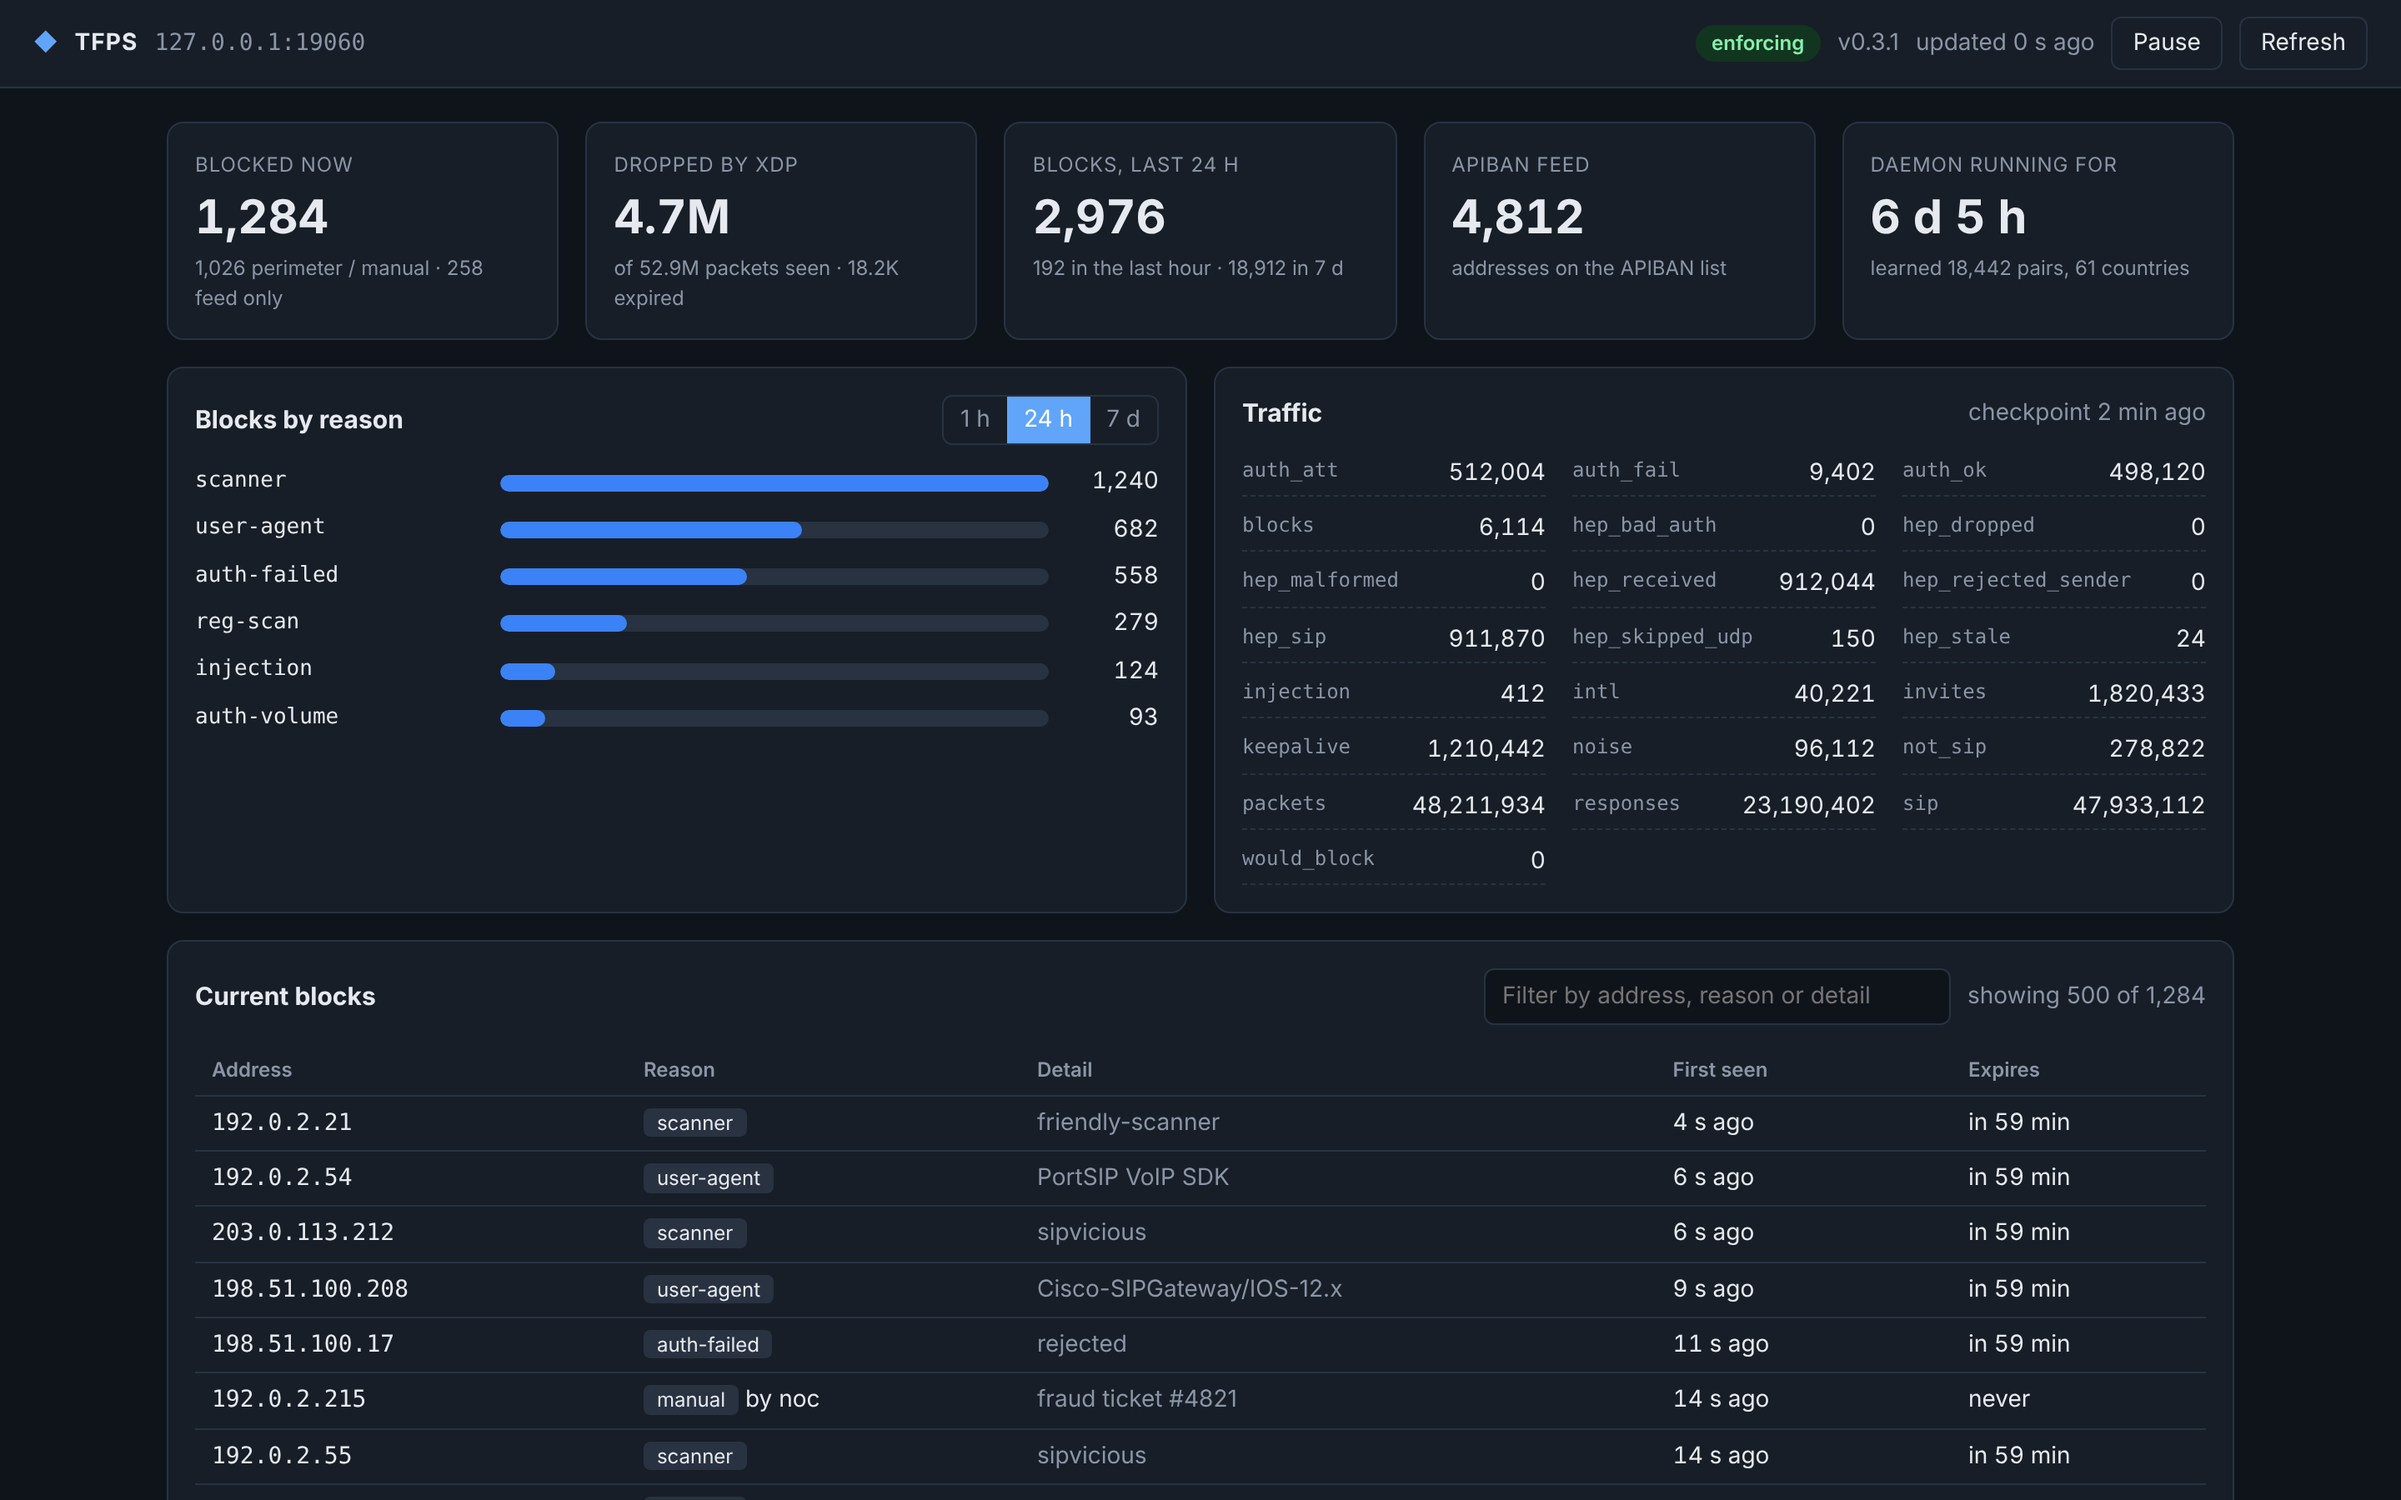
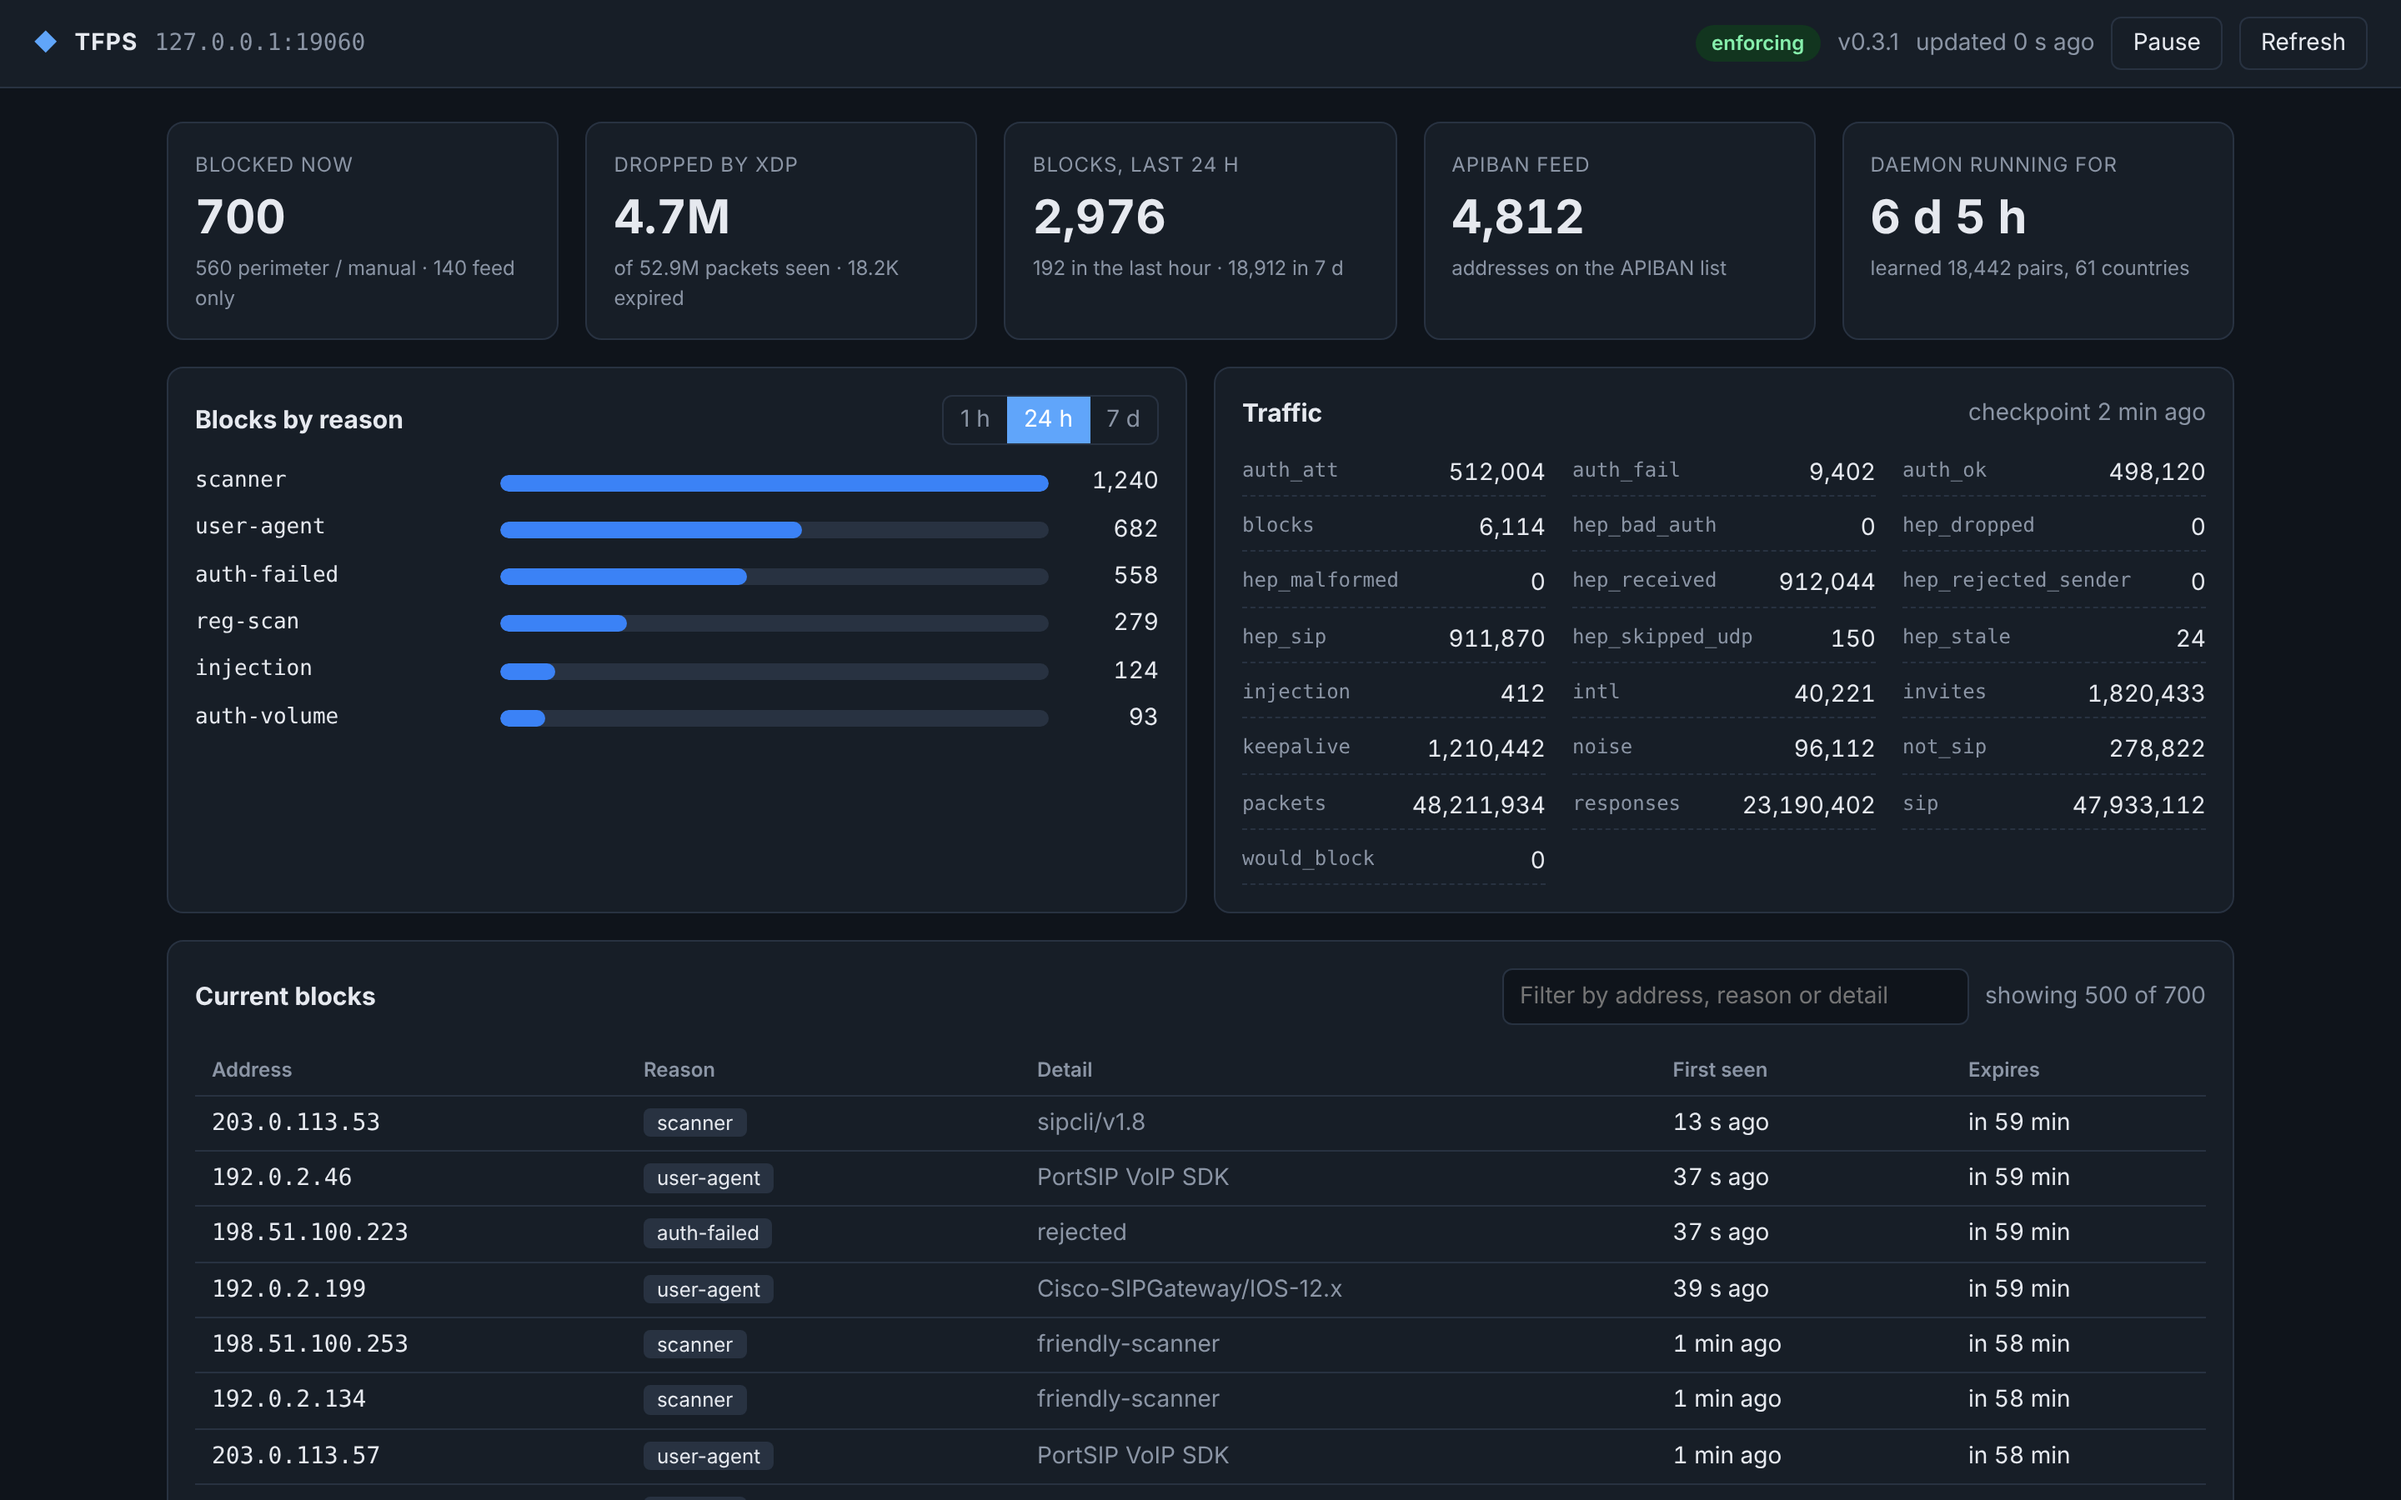
fix(review): address Copilot review round 1
- The block table sorts the listing newest first before taking its 500
  rows; /v1/blocks is in kernel-map order. Rows with no first-seen last.
- The demo gives each block a distinct address (700 of the 762 in the
  documentation ranges, shuffled) and no longer pre-sorts them, as a real
  map would not. Screenshots retaken.

Claude-Session: https://claude.ai/code/session_01NZZMzNQKZU4oQnVuqina6o

diff --git a/crates/tfps/src/dashboard/dashboard.js b/crates/tfps/src/dashboard/dashboard.js
@@ -284,7 +284,9 @@ async function refresh() {
   showError("log-error", log.status === "rejected" ? log.reason : null);
   if (blocks) {
     if (blocks.status === "fulfilled") {
-      lastBlocks = blocks.value;
+      // The API lists blocks in kernel-map order; the table shows the newest
+      // first, so the row limit keeps the newest. No first-seen sorts last.
+      lastBlocks = blocks.value.slice().sort((a, b) => (b.first_seen || 0) - (a.first_seen || 0));
       renderBlocks();
     }
     showError("blocks-error", blocks.status === "rejected" ? blocks.reason : null);

diff --git a/crates/tfps/examples/dashboard_demo.rs b/crates/tfps/examples/dashboard_demo.rs
@@ -22,6 +22,9 @@ use tfps::store::BlockRow;
 
 const LISTEN: &str = "127.0.0.1:19060";
 
+/// Blocks in the demo map: most of the 762 documentation addresses.
+const BLOCKED: usize = 700;
+
 /// The reasons the perimeter gives, with a detail each and how often they occur.
 const REASONS: [(&str, &[&str], u32); 6] = [
     (
@@ -87,10 +90,18 @@ impl Demo {
             Ipv4Addr::new(n[0], n[1], n[2], 1 + rng.below(254) as u8).to_string()
         };
 
+        // Every address in the three documentation ranges once, shuffled: a
+        // block map holds each address at most once, and so must the demo.
+        let mut pool: Vec<String> = [[198, 51, 100], [203, 0, 113], [192, 0, 2]]
+            .iter()
+            .flat_map(|n| (1..=254u8).map(move |h| Ipv4Addr::new(n[0], n[1], n[2], h).to_string()))
+            .collect();
+        for i in (1..pool.len()).rev() {
+            pool.swap(i, rng.below(i as u64 + 1) as usize);
+        }
         let mut blocks = Vec::new();
-        for i in 0..1_284u32 {
+        for (i, addr) in pool.into_iter().take(BLOCKED).enumerate() {
             let first = now - rng.below(3_500) as u32;
-            let addr = ip(&mut rng);
             let doc = match i % 10 {
                 // Feed entries: no reason of ours, no expiry for a week.
                 0 | 1 => banned_doc(
@@ -118,7 +129,6 @@ impl Demo {
             };
             blocks.push(doc);
         }
-        blocks.sort_by_key(|b| std::cmp::Reverse(b.first_seen));
 
         let mut log = Vec::new();
         let mut ts = now - 20;
